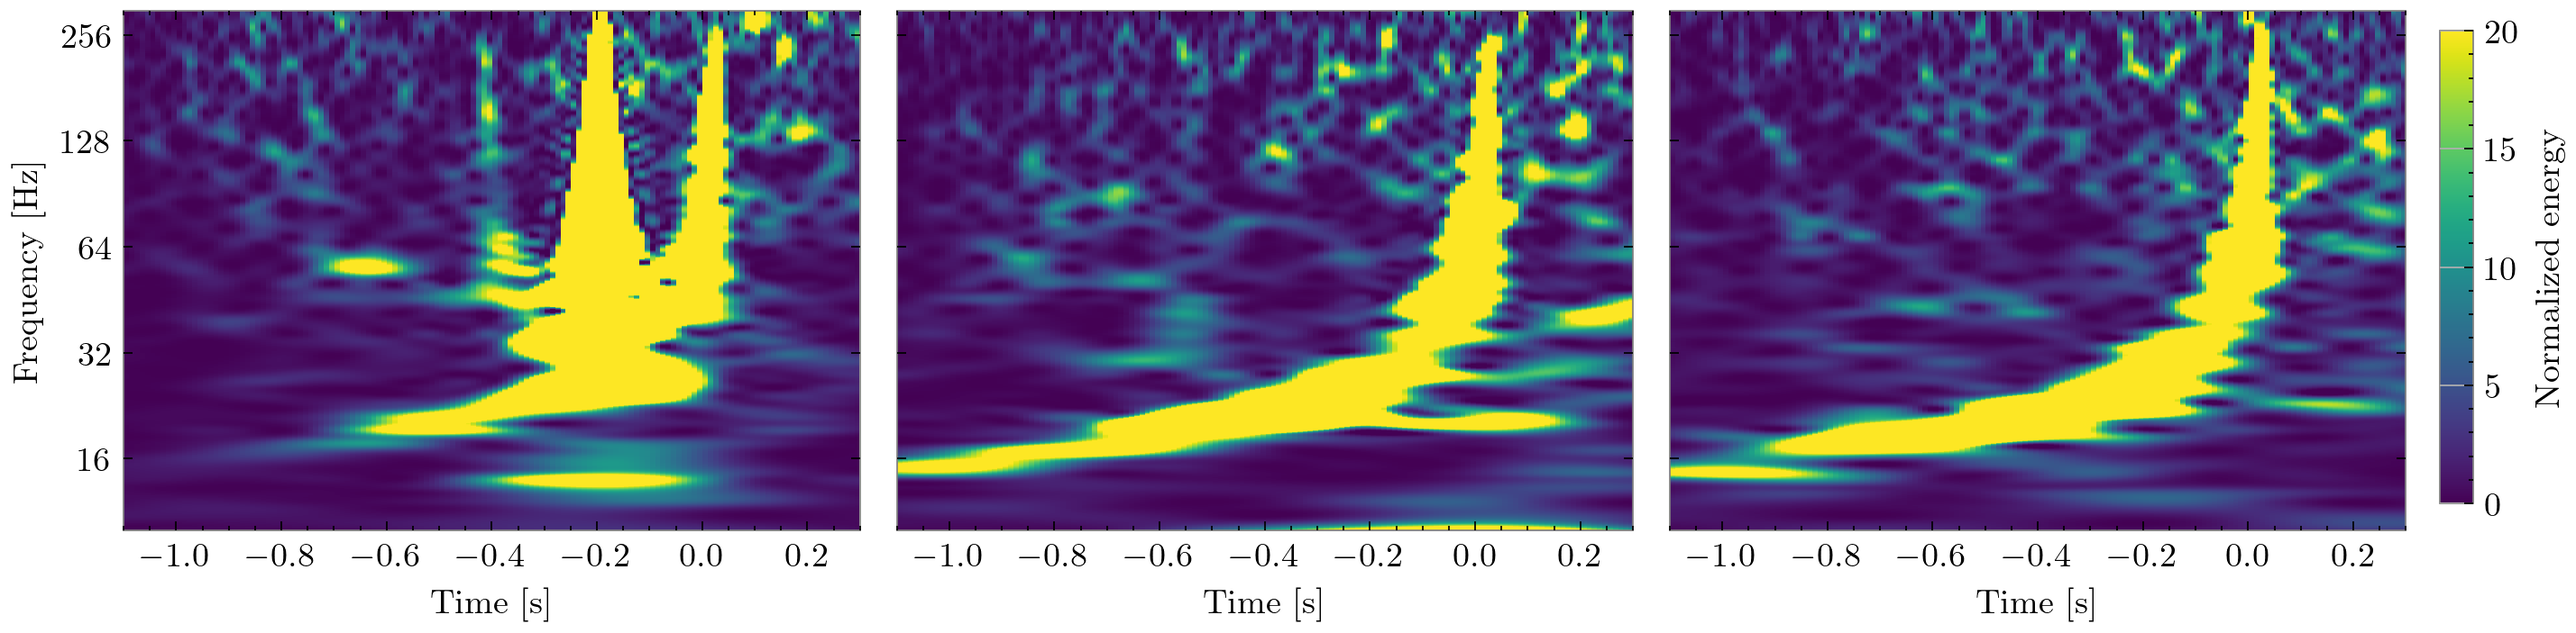
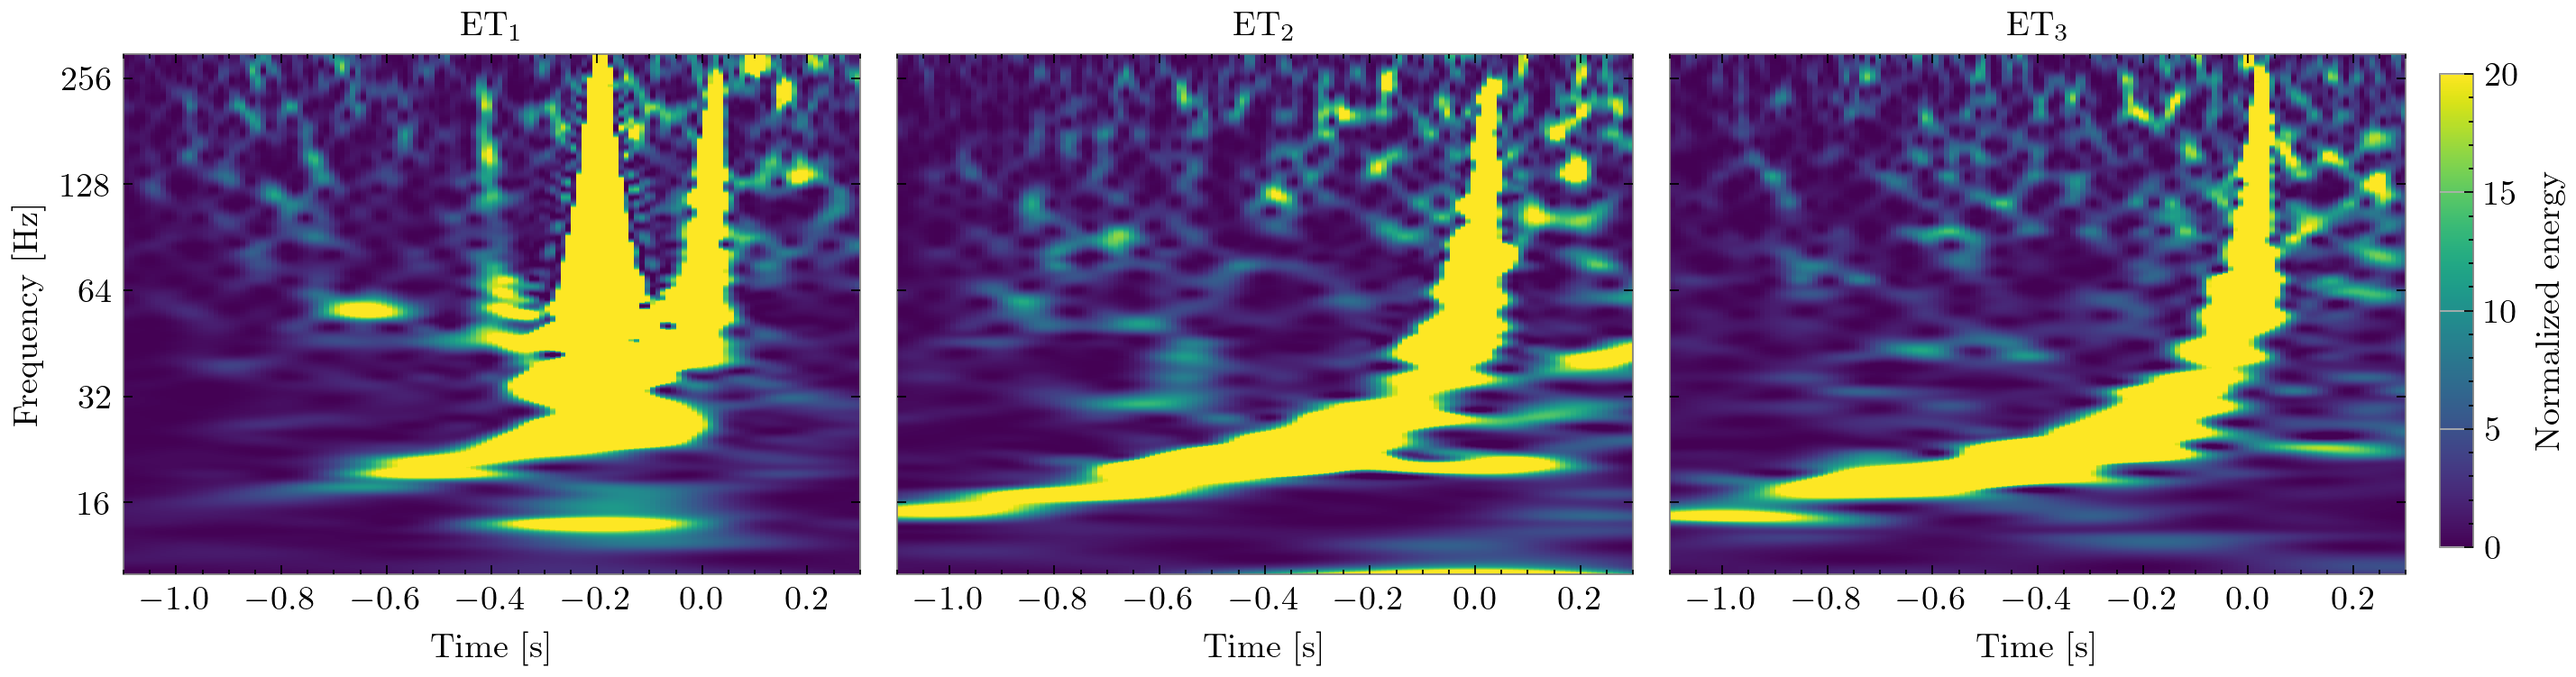
Add titles

diff --git a/plotting_directory/nijntje_flowchart/three_chanels_panel.py b/plotting_directory/nijntje_flowchart/three_chanels_panel.py
@@ -128,21 +128,67 @@ coloured_signal_noise_glitch_timeseries = utils.white_timeseries_to_coloured_tim
 ############### saving glitch only data ######################
 signal_only_timeseries = TimeSeries(coloured_signal_only_data, times = ifos[0].time_array, channel = 'ET1:STRAIN')
 
-fig, axes = plt.subplots(1, 3, figsize = (15, 3), sharey = True, sharex = True, gridspec_kw = {'wspace': 0.05})
+plot_tcp = True
+if plot_tcp:
+    fig, axes = plt.subplots(1, 3, figsize = (15, 3), sharey = True, sharex = True, gridspec_kw = {'wspace': 0.05})
 
-maximum_frequency = 512
-qrange = (16, 32)
-tres = 0.01
-fres = 0.01
+    maximum_frequency = 512
+    qrange = (16, 32)
+    tres = 0.01
+    fres = 0.01
 
 
-for ii, ifo in enumerate(ifos):
-    if ii==0:
-        timeseries_to_plot = TimeSeries(coloured_signal_noise_glitch_timeseries, times = ifos[0].time_array, channel = 'ET1:STRAIN')
-    else:
-        timeseries_to_plot = TimeSeries(ifo.time_domain_strain.copy(), times = ifos[0].time_array, channel = f'{ifo.name}:STRAIN')
+    for ii, ifo in enumerate(ifos):
+        if ii==0:
+            timeseries_to_plot = TimeSeries(coloured_signal_noise_glitch_timeseries, times = ifos[0].time_array, channel = 'ET1:STRAIN')
+        else:
+            timeseries_to_plot = TimeSeries(ifo.time_domain_strain.copy(), times = ifos[0].time_array, channel = f'{ifo.name}:STRAIN')
 
-    ax = axes[ii]
+        ax = axes[ii]
+        _, ax, imshow = utils.plot_q_transform(timeseries_to_plot.crop(args.glitch_trigger_time-1.5, args.glitch_trigger_time+1), 
+                        ax = ax, whiten = True, minimum_frequency = args.minimum_frequency, 
+                        trigger_time = args.glitch_trigger_time, 
+                        maximum_frequency = maximum_frequency,
+                        qrange = qrange, tres = tres, fres = fres)
+
+
+        ax.set_xlabel('Time [s]')
+        ax.grid()
+
+
+    axes[0].set_title('$\\mathrm{ET}_1$', fontsize = 11)
+    axes[1].set_title('$\\mathrm{ET}_2$', fontsize = 11)
+    axes[2].set_title('$\\mathrm{ET}_3$', fontsize = 11)
+    axes[0].set_ylabel('Frequency [Hz]')
+    axes[0].set_ylim(10, 300)
+    axes[0].set_xlim(-1.1, 0.3)
+
+
+    fig.subplots_adjust(right=0.8)
+    cbar_ax = fig.add_axes([0.81, 0.15, 0.01, 0.7])
+
+    fig.colorbar(imshow, cax=cbar_ax, label = "Normalized energy")
+
+    fig.savefig(f'{args.outdir}/{args.label}_tcp.png', bbox_inches = 'tight', dpi = 250)
+    fig.savefig(f'../../figures/{args.label}_tcp.png', bbox_inches = 'tight', dpi = 250)
+
+
+
+plot_null_stream = True
+if plot_null_stream:
+    null_stream_timeseries = coloured_signal_noise_glitch_timeseries + ifos[1].time_domain_strain + ifos[2].time_domain_strain
+    timeseries_to_plot = TimeSeries(null_stream_timeseries, times = ifos[0].time_array, channel = f'{ifo.name}:STRAIN')
+
+
+    maximum_frequency = 512
+    qrange = (16, 32)
+    tres = 0.01
+    fres = 0.01
+
+
+
+    fig, ax = plt.subplots(1, 1, figsize = (5, 3))
+
     _, ax, imshow = utils.plot_q_transform(timeseries_to_plot.crop(args.glitch_trigger_time-1.5, args.glitch_trigger_time+1), 
                     ax = ax, whiten = True, minimum_frequency = args.minimum_frequency, 
                     trigger_time = args.glitch_trigger_time, 
@@ -150,24 +196,22 @@ for ii, ifo in enumerate(ifos):
                     qrange = qrange, tres = tres, fres = fres)
 
 
-    ax.set_xlabel('Time [s]')
     ax.grid()
+    ax.set_title('Null Stream', fontsize = 11)
+    ax.set_ylim(10, 300)
+    ax.set_xlim(-1.1, 0.3)
+
+    fig.subplots_adjust(right=0.8)
+    cbar_ax = fig.add_axes([0.81, 0.15, 0.02, 0.7])
+
+    fig.colorbar(imshow, cax=cbar_ax, label = "Normalized energy")
+    
+    fig.savefig(f'{args.outdir}/{args.label}_null_stream.png', bbox_inches = 'tight', dpi = 250)
+    fig.savefig(f'../../figures/{args.label}_null_stream.png', bbox_inches = 'tight', dpi = 250)    
 
 
 
-axes[0].set_ylabel('Frequency [Hz]')
-axes[0].set_ylim(10, 300)
-axes[0].set_xlim(-1.1, 0.3)
-
-
-fig.subplots_adjust(right=0.8)
-cbar_ax = fig.add_axes([0.81, 0.15, 0.01, 0.7])
-
-fig.colorbar(imshow, cax=cbar_ax, label = "Normalized energy")
-fig.savefig(f'{args.outdir}/{args.label}_tcp.png', bbox_inches = 'tight', dpi = 250)
-fig.savefig(f'../../figures/{args.label}_tcp.png', bbox_inches = 'tight', dpi = 250)
-
-
+######## make null stream #########
 
 
 ###### making the q scans for the ET1 and for null stream ################
